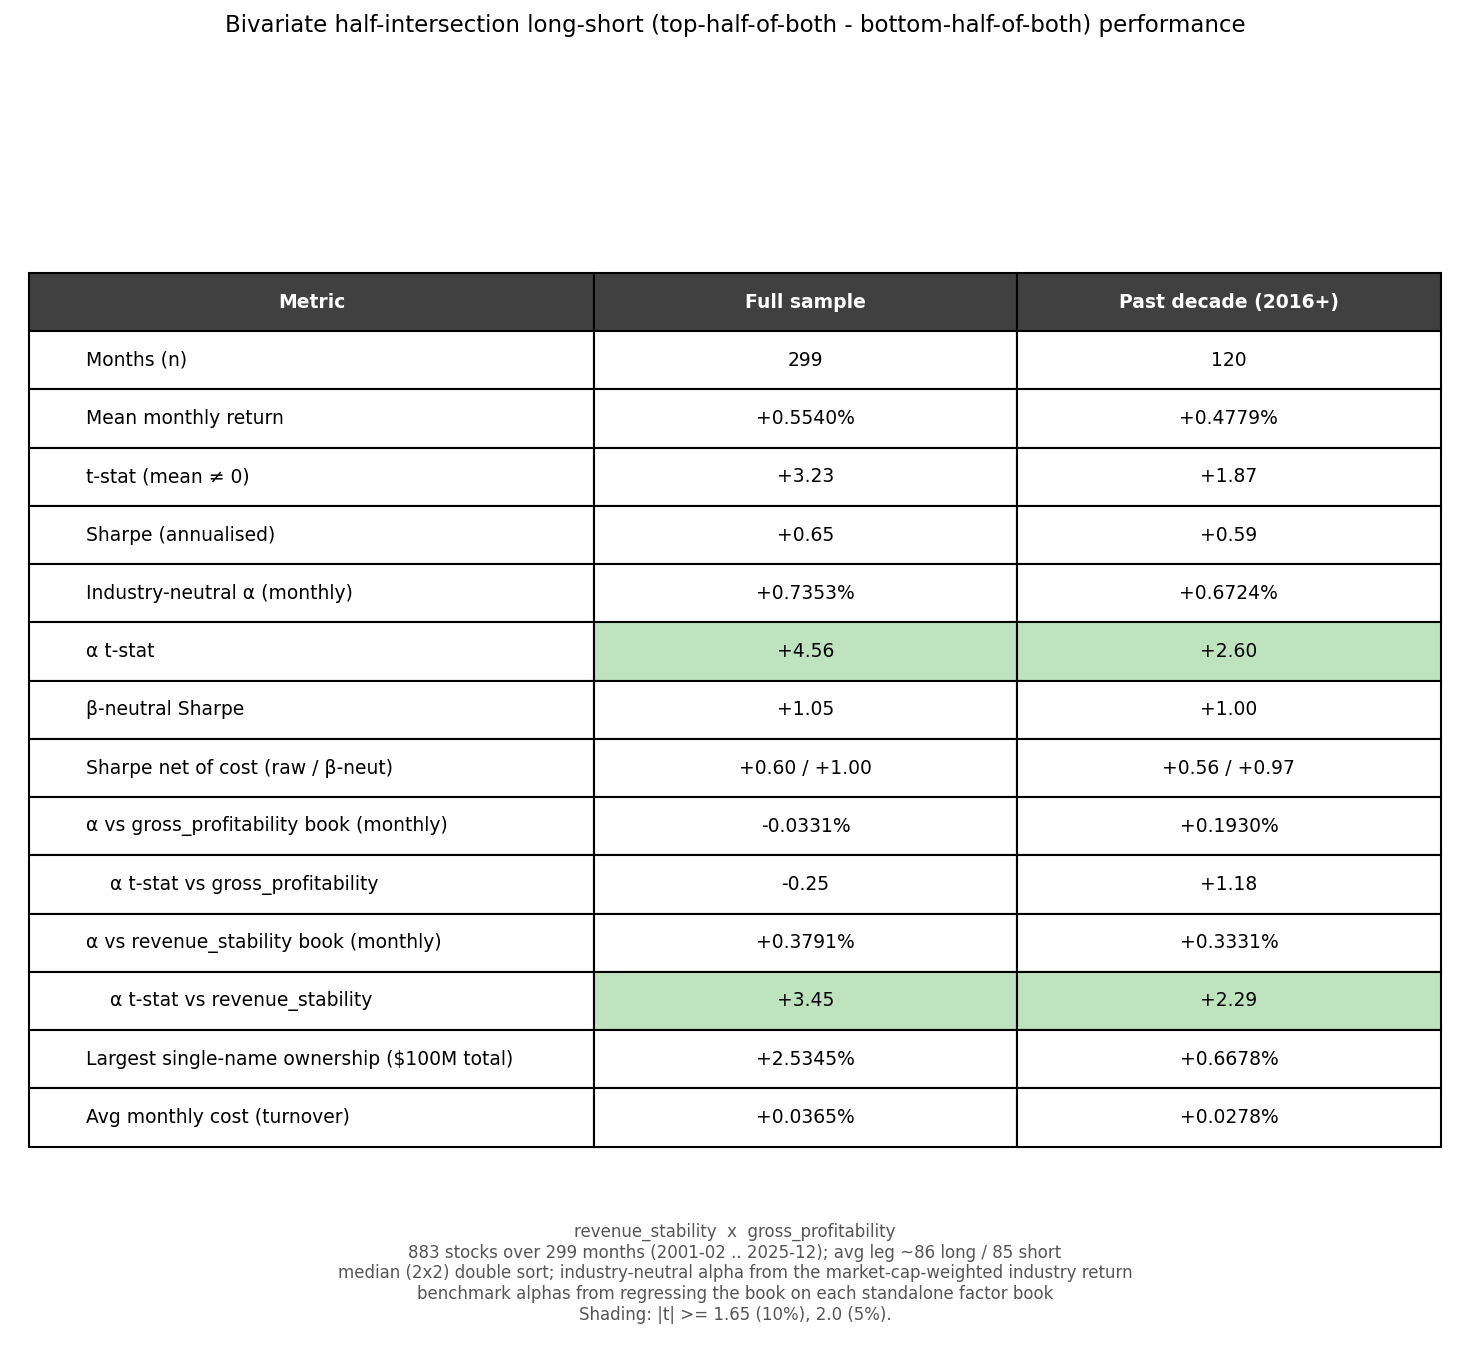
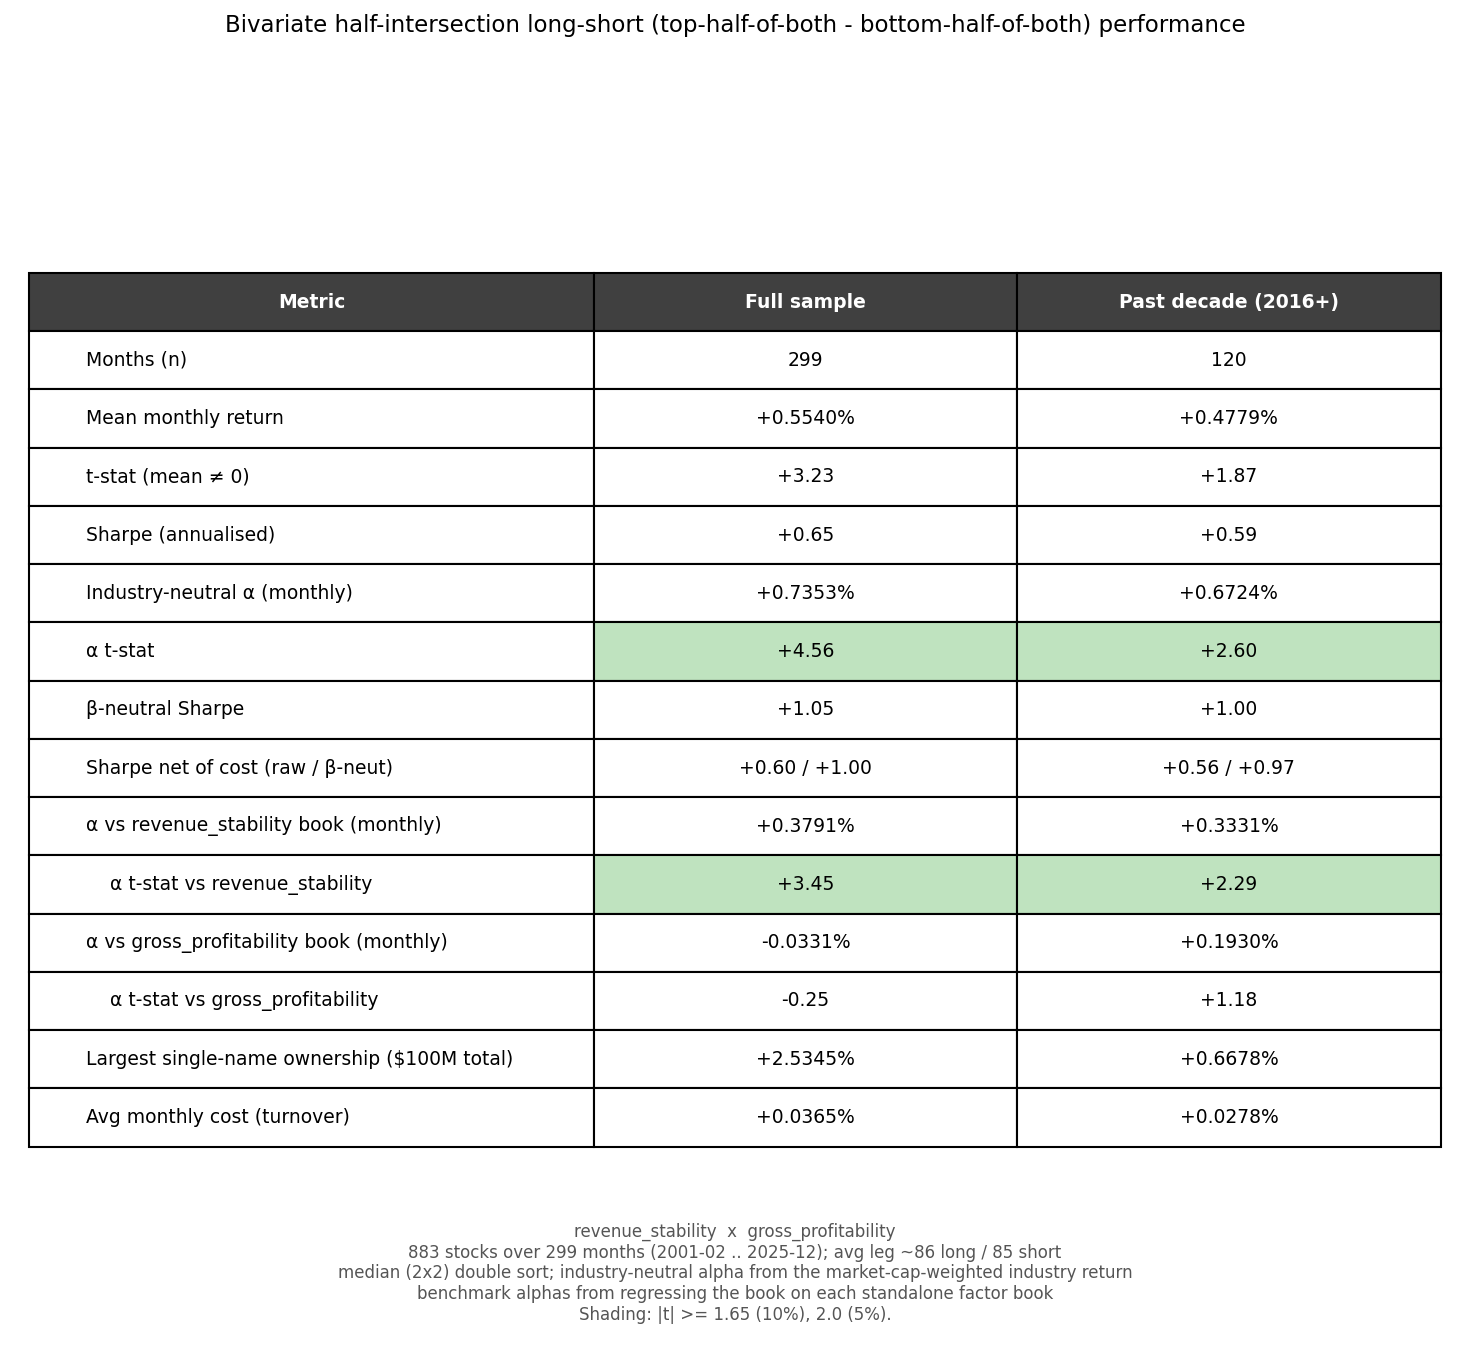
Fix cost computation for timing strategies.

Changed region(s): [[0.398, 0.5846, 0.9796, 0.7692], [0.0918, 0.6462, 0.3061, 0.7385], [0.0918, 0.5846, 0.3061, 0.6154]]

diff --git a/experiment3 - multifactor/bivariate_gate.py b/experiment3 - multifactor/bivariate_gate.py
@@ -35,13 +35,6 @@ larger, less extreme slice of the cross-section (~1/4 of names per corner rather
 than ~1/9).  Reporting both lets us see whether the double sort's edge comes from
 the extreme tertile corners or survives the milder, higher-capacity median split.
 
-Default factors -- ``return_stability`` (Experiment 2 Stability library, monthly-
-return consistency) and ``gross_profitability`` (Experiment 1 general factors,
-profitability/quality).  Both are ``Q5-Q1`` factors (long the high-z names), so
-each is oriented +1; the orientation is read from each factor's standalone
-``long_short_market_alpha.csv`` ``direction`` exactly as ``composite.py`` does,
-so any pair of factors from the project's libraries can be double-sorted.
-
 Design -- reuses composite.py wholesale
 ---------------------------------------
 Nothing generic is re-implemented.  The constituent loading and bullish
@@ -64,8 +57,8 @@ The two selection rules each get their own subfolder of parallel files:
                                 tertile cell, each cell also labelled with its
                                 time-average market cap and number of names
         tertile/performance.png     the book's mean / t / Sharpe / industry-neutral
-                                alpha / alpha above the gross_profitability &
-                                revenue_stability books (with t-stats) / largest
+                                alpha / alpha above each of the pair's own two
+                                standalone factor books (with t-stats) / largest
                                 single-name ownership for a $100M dollar-neutral book
                                 / avg cost
     half/                       the half-intersection (median double-sort) rule's own
@@ -76,7 +69,6 @@ The two selection rules each get their own subfolder of parallel files:
 Run standalone::
 
     python bivariate_gate.py                                   # default pair
-    python bivariate_gate.py return_stability gross_profitability
 """
 
 from __future__ import annotations
@@ -98,7 +90,7 @@ F, R = C.F, C.R
 # --------------------------------------------------------------------------- #
 # Configuration
 # --------------------------------------------------------------------------- #
-DEFAULT_FACTORS = ["return_stability", "gross_profitability"]
+DEFAULT_FACTORS = ["revenue_stability", "gross_profitability"]
 N_TILES = 3                                  # tertiles
 TOP, BOTTOM = N_TILES, 1                      # top / bottom tertile labels
 TCOLS = [f"T{i}" for i in range(1, N_TILES + 1)]
@@ -107,12 +99,13 @@ HALF_TOP, HALF_BOTTOM = N_HALVES, 1           # top / bottom half labels
 OUTPUT_DIR = C.OUTPUT_DIR
 DECADE_START = C.DECADE_START                # "past decade" cut-off (2016+), project convention
 
-# Standalone long/short books the double-sort return is benchmarked against: the
-# strategy is regressed on each one to measure the alpha it earns *above* that
-# book (does the double sort add return beyond simply holding these factors?).
-# Both resolve through composite's library catalog (gross_profitability lives in
-# Experiment 1, revenue_stability in Experiment 2's Stability library).
-BENCHMARK_FACTORS = ["gross_profitability", "revenue_stability"]
+# The double-sort return is benchmarked against *its own two constituents*: the
+# strategy is regressed on each standalone factor book to measure the alpha it
+# earns *above* that book (does the double sort add return beyond simply holding
+# either factor it is built from?).  The benchmark pair is therefore the run's
+# own ``factor_names`` -- so ``return_stability x gross_profitability`` measures
+# alpha above univariate return_stability, not an unrelated book -- mirroring
+# Experiment 5's ``capacity_scaling`` rather than a fixed global list.
 
 # The capital assumption behind the largest-single-name ownership row lives in
 # composite.py (``PORTFOLIO_CAPITAL`` / ``LEG_CAPITAL``); the ownership itself is
@@ -339,10 +332,11 @@ def evaluate_book(spread: pd.Series, cost_series: pd.Series, industry: pd.Series
     return windows, full, decade
 
 
-def _benchmark_extra_metrics() -> list[tuple[str, str, str, bool]]:
-    """``render_performance`` rows for the per-benchmark alpha / alpha t-stat."""
+def _benchmark_extra_metrics(benchmark_factors: list[str]) -> list[tuple[str, str, str, bool]]:
+    """``render_performance`` rows for the per-benchmark alpha / alpha t-stat, one
+    pair per benchmark factor (the run's own two constituents)."""
     extra: list[tuple[str, str, str, bool]] = []
-    for f in BENCHMARK_FACTORS:
+    for f in benchmark_factors:
         extra.append((f"α vs {f} book (monthly)", f"alpha_vs_{f}", "pct", False))
         extra.append((f"    α t-stat vs {f}", f"alpha_tstat_vs_{f}", "num", True))
     return extra
@@ -442,8 +436,12 @@ def run(factor_names: list[str] = DEFAULT_FACTORS,
     #    (tile_a/tile_b) and into halves (half_a/half_b) for the two rules.
     frame = double_sorted(resolved)
     industry = C.industry_return()
-    benchmarks = {f: C.factor_long_short(f) for f in BENCHMARK_FACTORS}
-    extra_metrics = _benchmark_extra_metrics() + [C.ownership_metric()]
+    # Benchmark the double sort against its own two constituents (see the module
+    # note above), so the "alpha above univariate" is measured for exactly the
+    # two factors this book is built from rather than a fixed global pair.
+    benchmark_factors = list(factor_names)
+    benchmarks = {f: C.factor_long_short(f) for f in benchmark_factors}
+    extra_metrics = _benchmark_extra_metrics(benchmark_factors) + [C.ownership_metric()]
 
     # 2a. Tertile-corner rule: long top tertile of both / short bottom of both.
     book = bivariate_book(frame)
@@ -516,7 +514,7 @@ def run(factor_names: list[str] = DEFAULT_FACTORS,
           f"(t={full['tstat']:+.2f}, Sharpe={full['sharpe']:+.2f})")
     print(f"  industry-neutral alpha: {full['alpha']:+.4%}/mo "
           f"(t={full['alpha_tstat']:+.2f}, ind beta={full['ind_beta']:+.2f})")
-    for f in BENCHMARK_FACTORS:
+    for f in benchmark_factors:
         print(f"  alpha vs {f} book: {full[f'alpha_vs_{f}']:+.4%}/mo "
               f"(t={full[f'alpha_tstat_vs_{f}']:+.2f})")
     print(f"  2016+: alpha={decade['alpha']:+.4%}/mo (t={decade['alpha_tstat']:+.2f})")
@@ -527,7 +525,7 @@ def run(factor_names: list[str] = DEFAULT_FACTORS,
           f"(t={hfull['tstat']:+.2f}, Sharpe={hfull['sharpe']:+.2f})")
     print(f"  industry-neutral alpha: {hfull['alpha']:+.4%}/mo "
           f"(t={hfull['alpha_tstat']:+.2f}, ind beta={hfull['ind_beta']:+.2f})")
-    for f in BENCHMARK_FACTORS:
+    for f in benchmark_factors:
         print(f"  alpha vs {f} book: {hfull[f'alpha_vs_{f}']:+.4%}/mo "
               f"(t={hfull[f'alpha_tstat_vs_{f}']:+.2f})")
     print(f"  2016+: alpha={hdecade['alpha']:+.4%}/mo (t={hdecade['alpha_tstat']:+.2f})")

diff --git a/experiment4 - timing/spread_timing.py b/experiment4 - timing/spread_timing.py
@@ -91,7 +91,7 @@ F = C.F                      # the Experiment 1 engine, wired for the software u
 # --------------------------------------------------------------------------- #
 # Configuration
 # --------------------------------------------------------------------------- #
-LOOKBACK = 6                                  # trailing months for the spread average
+LOOKBACK = 12                                  # trailing months for the spread average
 N_QUINTILES = C.N_QUINTILES
 DECADE_START = C.DECADE_START                 # 2016-01-01, the project "past decade" cut-off
 OUTPUT_DIR = _THIS_DIR / "output"
@@ -159,10 +159,13 @@ def evaluate_factor(factor: str, subexperiment: str, direction: str,
     Returns the tidy ``comparison`` stats table (one row per window): the gross
     (cost-free) mean / t / Sharpe / industry-neutral alpha & beta, and the
     net-of-cost (after-cost) counterparts, plus the average turnover cost and the
-    fraction of months in market.  The market-alpha regression (gross and net) is
-    estimated over the in-market months only, so the timed book's alpha is not
-    diluted by the exact-zero cash months; mean / t / Sharpe still cover the full
-    timed series including those months.
+    fraction of months in market.  **Every quantity -- the raw Sharpe, the average
+    cost and the net-of-cost Sharpe included -- is measured over the activated
+    (in-market) months only**; the exact-zero cash months are excluded so they
+    neither dilute the mean nor shrink alpha / beta.  The activated-month cost folds
+    each run's exit-month liquidation back onto the run's last active month
+    (:func:`cost.active_month_cost`), so a book entered and exited within a single
+    month is discounted by the full round-trip (double) cost on that month.
     """
     gross = FM.signed_spread(panel, factor, direction)                # bullish quarterly Q5-Q1 book
     spread = value_spread(panel, factor)
@@ -190,16 +193,21 @@ def evaluate_factor(factor: str, subexperiment: str, direction: str,
 
     rows = []
     for book, (gross_s, cost_s, active_s) in books.items():
-        net_s = gross_s - cost_s
-        # The market-alpha regression AND the beta-neutral Sharpe use only the
-        # in-market months: an out-of-market month is cash (an exact 0 with no
-        # industry exposure), so including it would mechanically shrink alpha and
-        # beta toward zero and drag the neutralised Sharpe below what a significant
-        # alpha implies (the zero months dilute the mean but not the volatility).
-        reg_gross, reg_net = gross_s[active_s], net_s[active_s]
+        # Everything is measured over the **activated months only**.  An out-of-market
+        # month is cash (an exact 0 with no industry exposure), so including it would
+        # dilute the mean, shrink alpha / beta toward zero, and drag the (neutral and
+        # raw) Sharpe below what a significant alpha implies.  The activated series is
+        # also where the true trading cost belongs: :func:`cost.active_month_cost`
+        # folds each run's exit-month liquidation back onto its last active month, so a
+        # book entered and exited within a single month pays the full round-trip
+        # (double) cost on that one activated month.
+        act_gross = gross_s[active_s]
+        act_cost = COST.active_month_cost(cost_s, active_s)
+        act_net = act_gross - act_cost
+        reg_gross, reg_net = act_gross, act_net
         for win_name, start in WINDOWS:
-            sg = C.book_stats(gross_s, industry, start=start)
-            sn = C.book_stats(net_s, industry, start=start)
+            sg = C.book_stats(act_gross, industry, start=start)
+            sn = C.book_stats(act_net, industry, start=start)
             rg = C.book_stats(reg_gross, industry, start=start)
             rn = C.book_stats(reg_net, industry, start=start)
             rows.append({
@@ -209,7 +217,7 @@ def evaluate_factor(factor: str, subexperiment: str, direction: str,
                 "gross_alpha_tstat": rg["alpha_tstat"],
                 "ind_beta": rg["ind_beta"], "ind_beta_tstat": rg["ind_beta_tstat"],
                 "sharpe_neutral": rg["sharpe_neutral"],
-                "avg_cost": float(_win(cost_s, start).mean()),
+                "avg_cost": float(_win(act_cost, start).mean()),
                 "net_mean": sn["mean_monthly"], "net_tstat": sn["tstat"],
                 "net_sharpe": sn["sharpe"], "net_alpha": rn["alpha"],
                 "net_alpha_tstat": rn["alpha_tstat"],

diff --git a/experiment4 - timing/vol_timing.py b/experiment4 - timing/vol_timing.py
@@ -155,10 +155,13 @@ def evaluate_factor(factor: str, subexperiment: str, direction: str,
     Returns the tidy ``comparison`` stats table (one row per window): the gross
     (cost-free) mean / t / Sharpe / industry-neutral alpha & beta, and the
     net-of-cost (after-cost) counterparts, plus the average turnover cost and the
-    fraction of months in market.  The market-alpha regression (gross and net) is
-    estimated over the in-market months only, so the timed book's alpha is not
-    diluted by the exact-zero cash months; mean / t / Sharpe still cover the full
-    timed series including those months.
+    fraction of months in market.  **Every quantity -- the raw Sharpe, the average
+    cost and the net-of-cost Sharpe included -- is measured over the activated
+    (in-market) months only**; the exact-zero cash months are excluded so they
+    neither dilute the mean nor shrink alpha / beta.  The activated-month cost folds
+    each run's exit-month liquidation back onto the run's last active month
+    (:func:`cost.active_month_cost`), so a book entered and exited within a single
+    month is discounted by the full round-trip (double) cost on that month.
     """
     gross = FM.signed_spread(panel, factor, direction)                # bullish quarterly Q5-Q1 book
     in_market_all = timing_flag(gross.index)
@@ -183,16 +186,21 @@ def evaluate_factor(factor: str, subexperiment: str, direction: str,
 
     rows = []
     for book, (gross_s, cost_s, active_s) in books.items():
-        net_s = gross_s - cost_s
-        # The market-alpha regression AND the beta-neutral Sharpe use only the
-        # in-market months: an out-of-market month is cash (an exact 0 with no
-        # industry exposure), so including it would mechanically shrink alpha and
-        # beta toward zero and drag the neutralised Sharpe below what a significant
-        # alpha implies (the zero months dilute the mean but not the volatility).
-        reg_gross, reg_net = gross_s[active_s], net_s[active_s]
+        # Everything is measured over the **activated months only**.  An out-of-market
+        # month is cash (an exact 0 with no industry exposure), so including it would
+        # dilute the mean, shrink alpha / beta toward zero, and drag the (neutral and
+        # raw) Sharpe below what a significant alpha implies.  The activated series is
+        # also where the true trading cost belongs: :func:`cost.active_month_cost`
+        # folds each run's exit-month liquidation back onto its last active month, so a
+        # book entered and exited within a single month pays the full round-trip
+        # (double) cost on that one activated month.
+        act_gross = gross_s[active_s]
+        act_cost = COST.active_month_cost(cost_s, active_s)
+        act_net = act_gross - act_cost
+        reg_gross, reg_net = act_gross, act_net
         for win_name, start in WINDOWS:
-            sg = C.book_stats(gross_s, industry, start=start)
-            sn = C.book_stats(net_s, industry, start=start)
+            sg = C.book_stats(act_gross, industry, start=start)
+            sn = C.book_stats(act_net, industry, start=start)
             rg = C.book_stats(reg_gross, industry, start=start)
             rn = C.book_stats(reg_net, industry, start=start)
             rows.append({
@@ -202,7 +210,7 @@ def evaluate_factor(factor: str, subexperiment: str, direction: str,
                 "gross_alpha_tstat": rg["alpha_tstat"],
                 "ind_beta": rg["ind_beta"], "ind_beta_tstat": rg["ind_beta_tstat"],
                 "sharpe_neutral": rg["sharpe_neutral"],
-                "avg_cost": float(_win(cost_s, start).mean()),
+                "avg_cost": float(_win(act_cost, start).mean()),
                 "net_mean": sn["mean_monthly"], "net_tstat": sn["tstat"],
                 "net_sharpe": sn["sharpe"], "net_alpha": rn["alpha"],
                 "net_alpha_tstat": rn["alpha_tstat"],

diff --git a/experiment1 - general factors/cost.py b/experiment1 - general factors/cost.py
@@ -213,6 +213,35 @@ def average_cost(cost_series: pd.Series) -> float:
     return float(cost_series.dropna().mean())
 
 
+def active_month_cost(cost_series: pd.Series, active: pd.Series) -> pd.Series:
+    """Fold a timing overlay's turnover cost onto its **activated months only**.
+
+    An ``active``-masked :func:`turnover_cost` series charges the book's *entry*
+    (establish / reposition) cost on the activated month it happens, but charges the
+    *exit* (full liquidation) cost on the following **inactive** cash month -- the
+    month the book goes flat.  When performance is measured over the activated months
+    alone, that exit cost would silently vanish and a book that is entered and exited
+    within a single month would be charged only the one-way entry, not the true
+    round-trip.
+
+    This helper shifts each inactive month's cost back onto the immediately preceding
+    month and returns the result **restricted to the activated months**.  So the last
+    active month of every run absorbs the liquidation cost of exiting it, and an
+    isolated single-month hold (enter, then exit the next month) pays *double* the
+    cost -- the full round trip -- on that one activated month, exactly as intended.
+
+    ``cost_series`` and ``active`` are aligned on the same monthly index (the common
+    evaluation sample); ``active`` is the boolean in-market flag.
+    """
+    active = active.reindex(cost_series.index, fill_value=False).astype(bool)
+    cost = cost_series.fillna(0.0)
+    # Cost sitting on an inactive month is a liquidation of the run that just ended:
+    # move it back one month (onto that run's last active month).
+    exit_cost = cost.where(~active, 0.0).shift(-1).fillna(0.0)
+    folded = cost.where(active, 0.0) + exit_cost
+    return folded[active].rename(cost_series.name)
+
+
 # --------------------------------------------------------------------------- #
 # CLI
 # --------------------------------------------------------------------------- #

diff --git a/experiment4 - timing/README.md b/experiment4 - timing/README.md
@@ -26,15 +26,20 @@ For each candidate factor:
 2. **Cost.** `cost.turnover_cost` charges turnover on the factor's quarterly-held
    legs, passing the timing flag as the `active` mask so exits and re-entries are
    priced (a month spent in cash is free, but leaving and re-entering the book is not).
+   `cost.active_month_cost` then folds each run's exit-month liquidation back onto
+   the run's **last active month**, so the reported cost lives entirely on the
+   activated months — and a book entered and exited within a single month is charged
+   the full **round-trip (double) cost** on that one month.
 3. **Evaluation.** The timed book is scored over the full sample and 2016+ on the
-   common sample (months where both the return and the signal are defined):
-   gross and net-of-cost mean / t-stat / Sharpe, industry-neutral alpha, and the
-   walk-forward beta-neutral Sharpe (`composite.book_stats`; the hedge β is
-   re-estimated on an expanding, look-ahead-free window). The timed book's
-   **alpha regression and beta-neutral Sharpe run over in-market months only** —
-   the exact-zero cash months would mechanically dilute the alpha and drag the
-   neutralised Sharpe below what a significant alpha implies (they thin the mean
-   but not the volatility); the raw mean/t/Sharpe still cover the full timed series.
+   common sample (months where both the return and the signal are defined). **Every
+   reported quantity — the raw Sharpe, the average cost, the net-of-cost Sharpe, the
+   industry-neutral alpha and the walk-forward beta-neutral Sharpe — is measured over
+   the activated (in-market) months only** (`composite.book_stats`; the hedge β is
+   re-estimated on an expanding, look-ahead-free window). The exact-zero cash months
+   are excluded throughout: including them would thin the mean but not the volatility,
+   mechanically diluting the alpha and dragging both the raw and neutralised Sharpe
+   below what a significant alpha implies. The `n` column is thus the count of
+   activated months, and `% activation` is their share of the common sample.
 4. **Output.** One consolidated alpha table with a row per factor (the timed
    book): `output/spread_timing_performance.png` and
    `output/vol_timing_performance.png`.
